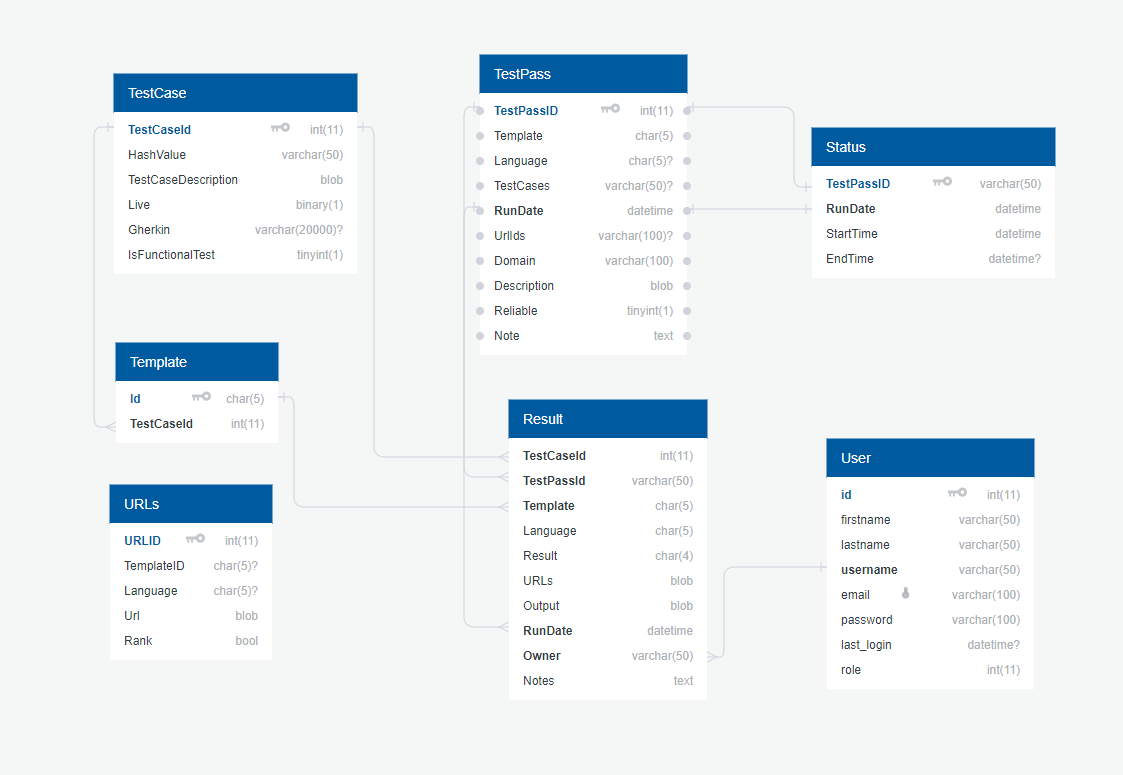
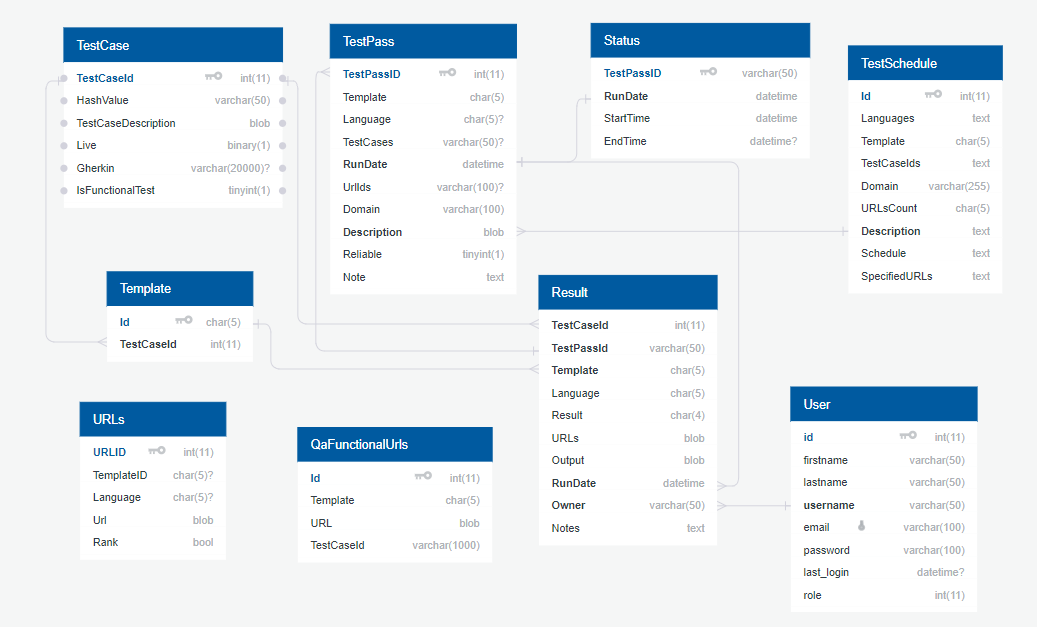
addition to models for two new tables - TestSchedule and QaFunctionalUrls, additions to documentation

diff --git a/app/models/testSchedule.js b/app/models/testSchedule.js
@@ -1,0 +1,48 @@
+/* jshint indent: 2 */
+
+module.exports = function(sequelize, DataTypes) {
+
+    return sequelize.define('testSchedule', {
+
+        Languages: {
+            type: "TEXT",
+            allowNull: true
+        },
+        Template: {
+            type: DataTypes.CHAR(5),
+            allowNull: true
+        }, 
+        TestCaseIds: {
+            type: "TEXT",
+            allowNull: true
+        },
+        Domain: {
+            type: DataTypes.CHAR(255),
+            allowNull: true
+        },
+        URLsCount: {
+            type: DataTypes.CHAR(5),
+            allowNull: true
+        },
+        Description: {
+            type: "TEXT",
+            allowNull: true
+        },
+        Schedule: {
+            type: "TEXT",
+            allowNull: true
+        },
+        Id: {
+            type: DataTypes.INTEGER(11),
+            allowNull: false,
+            primaryKey: true
+        },
+        SpecifiedURLs: {
+            type: "TEXT",
+            allowNull: true
+        }
+    }, { 
+        tableName: 'TestSchedule'
+    });
+  };
+  

diff --git a/app/models/qaFunctionalUrls.js b/app/models/qaFunctionalUrls.js
@@ -1,0 +1,26 @@
+/* jshint indent: 2 */
+
+module.exports = function(sequelize, DataTypes) {
+    return sequelize.define('qaFunctionalUrls', {
+      Id: {
+        type: DataTypes.INTEGER(11),
+        allowNull: false,
+        primaryKey: true
+      },
+      Template: {
+        type: DataTypes.CHAR(5),
+        allowNull: true
+      },
+      URL: {
+        type: "BLOB",
+        allowNull: true
+      },
+      TestCaseId: {
+        type: DataTypes.CHAR(1000),
+        allowNull: true
+      }
+    }, {
+      tableName: 'QaFunctionalUrls'
+    });
+  };
+  
